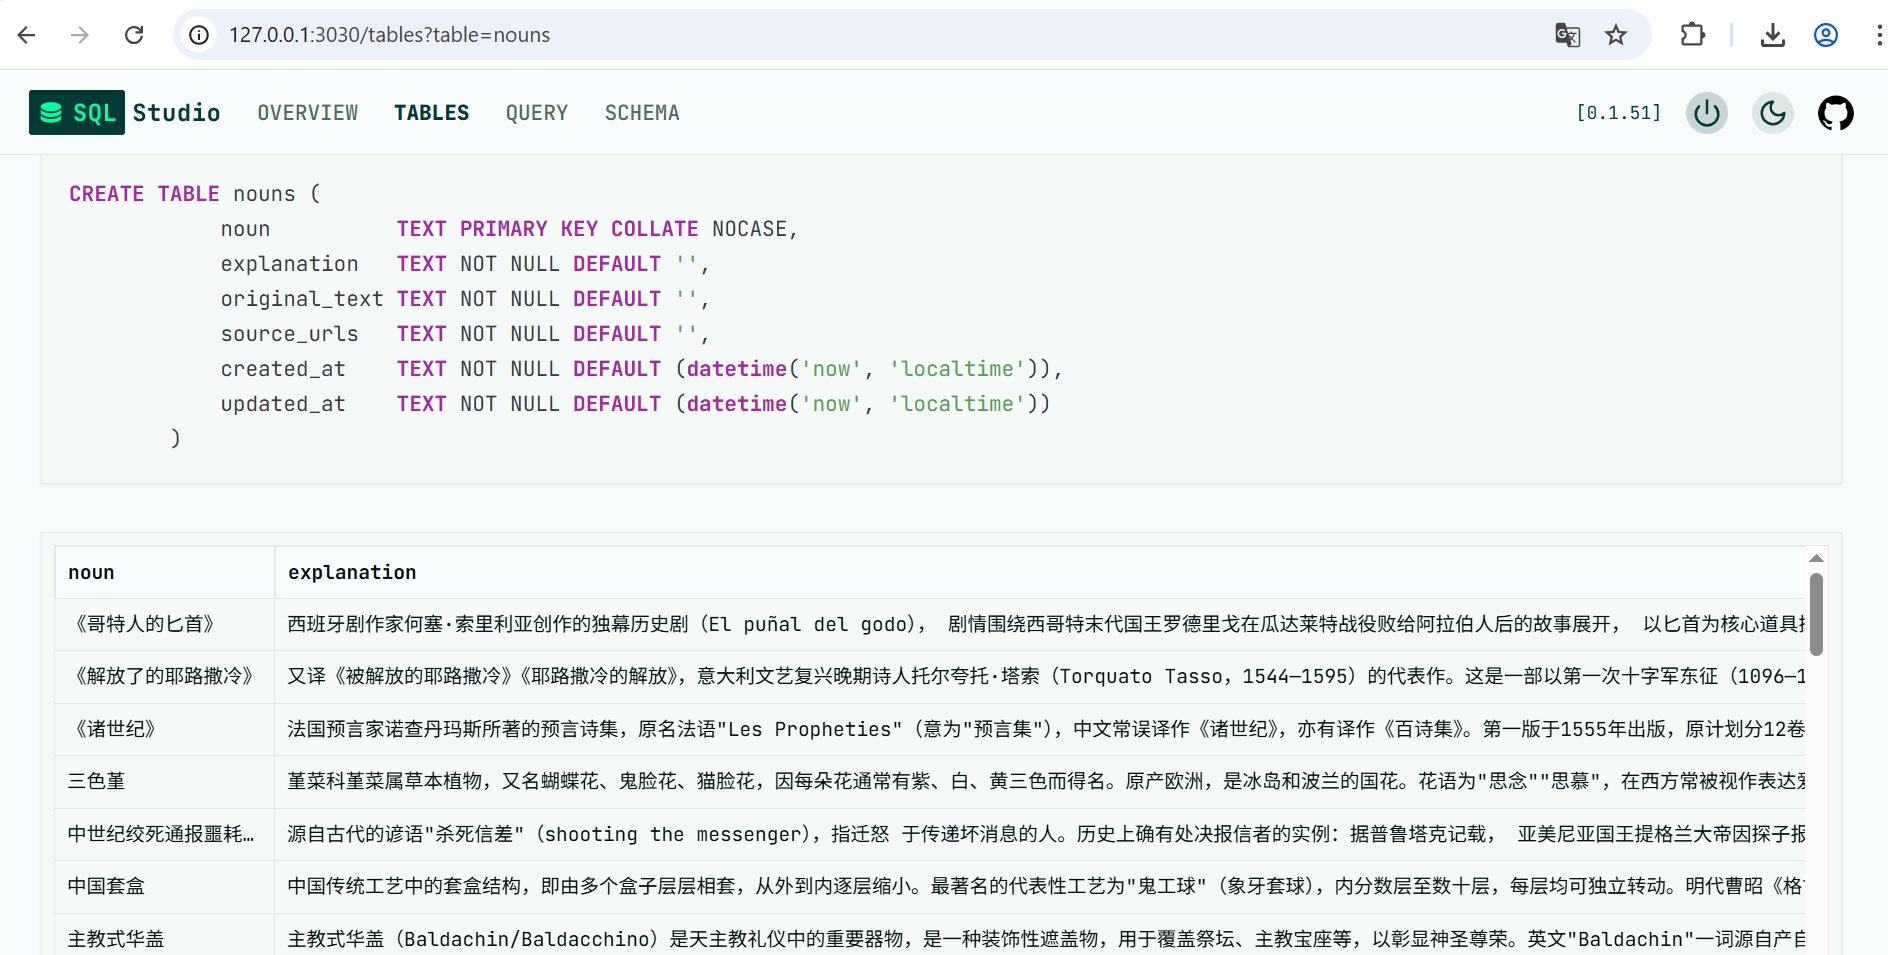
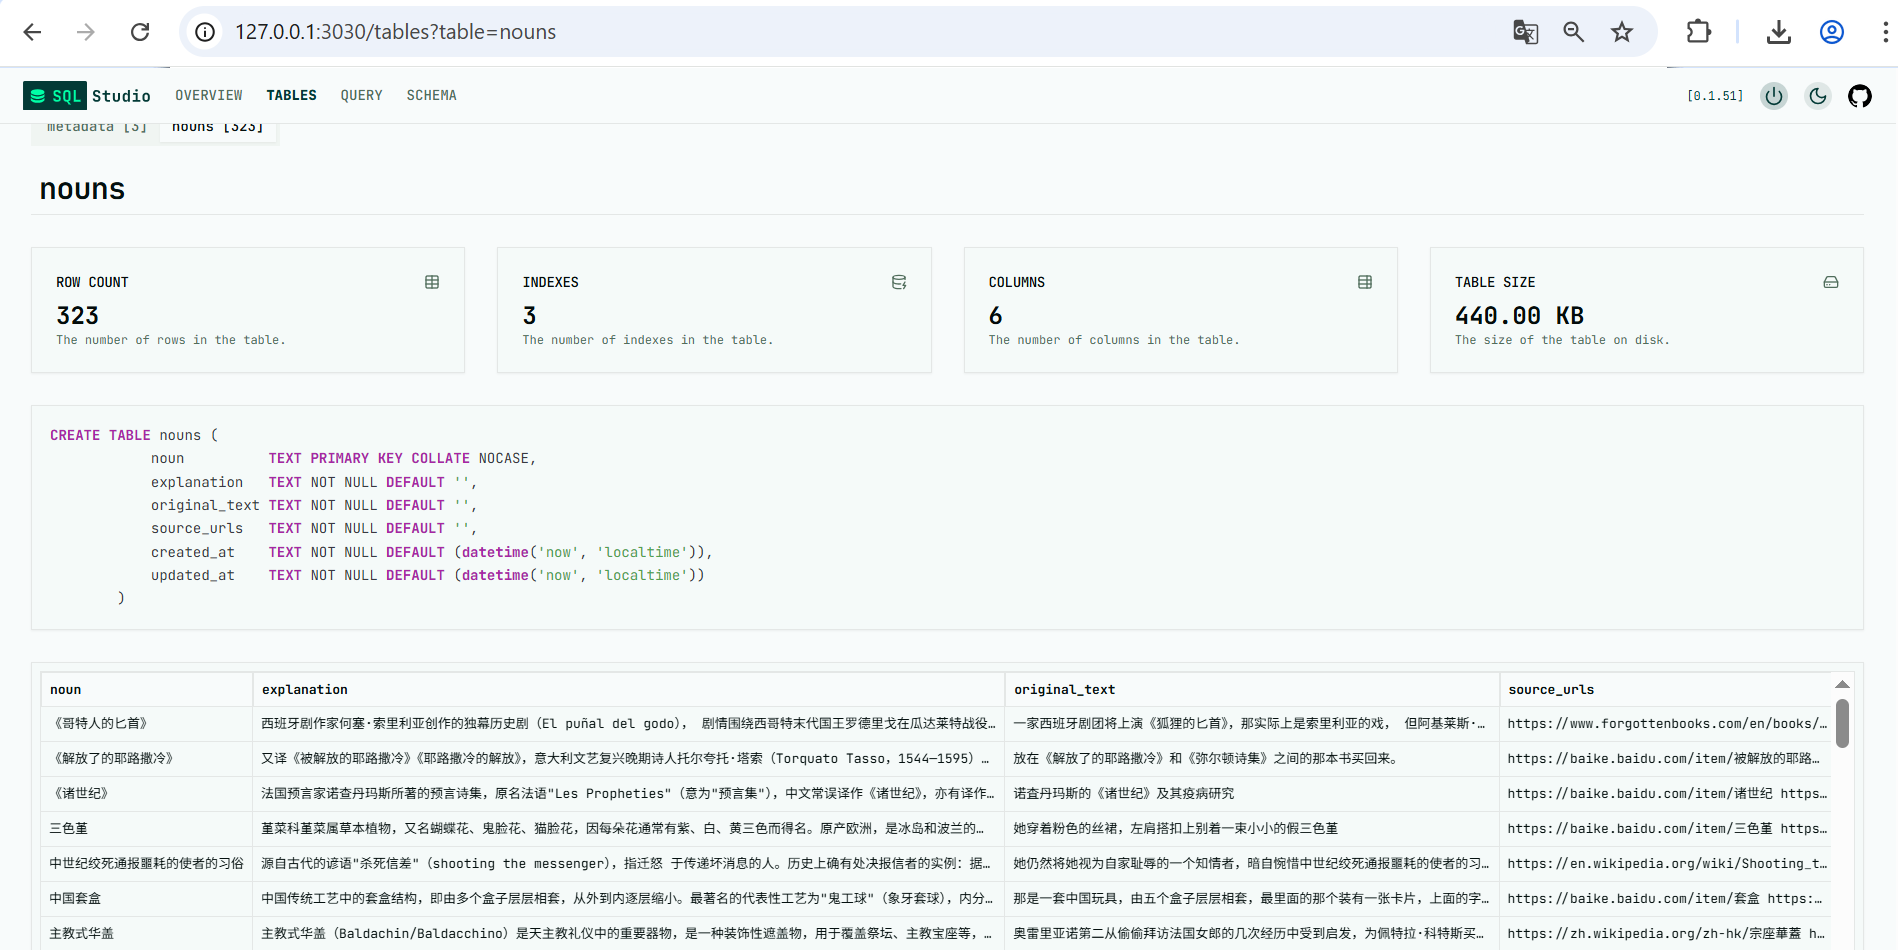
update sqlite visualization sample in README.md

diff --git a/README.md b/README.md
@@ -7,6 +7,9 @@
 📁 样例完整执行产物（包括文本块、YAML、JSON 等中间文件）请参见 [`assets/samples/`](assets/samples/)。
 
 产物中的 db 文件推荐使用 sqlite 可视化工具快速查看，例如 [SQL Studio](https://github.com/frectonz/sql-studio)。
+```bash
+sql-studio sqlite 百年孤独.db
+```
 
 ![sqlite可视化db文件样例](assets/sqlite-vis-example.png)
 